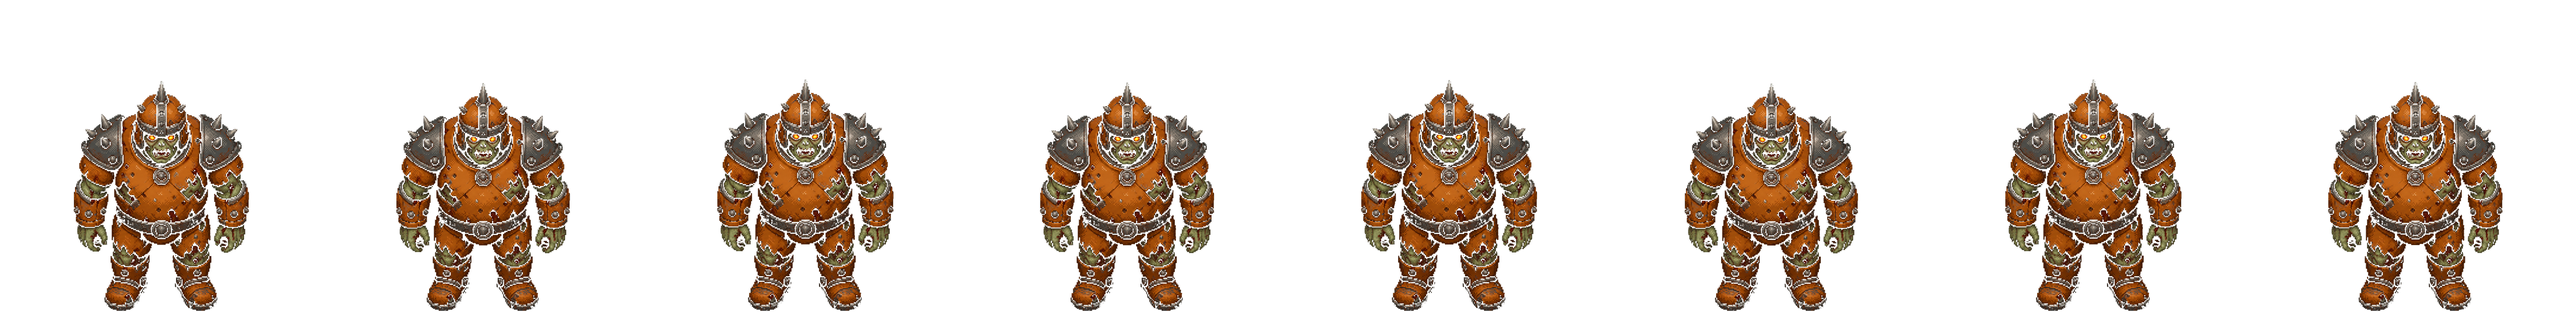
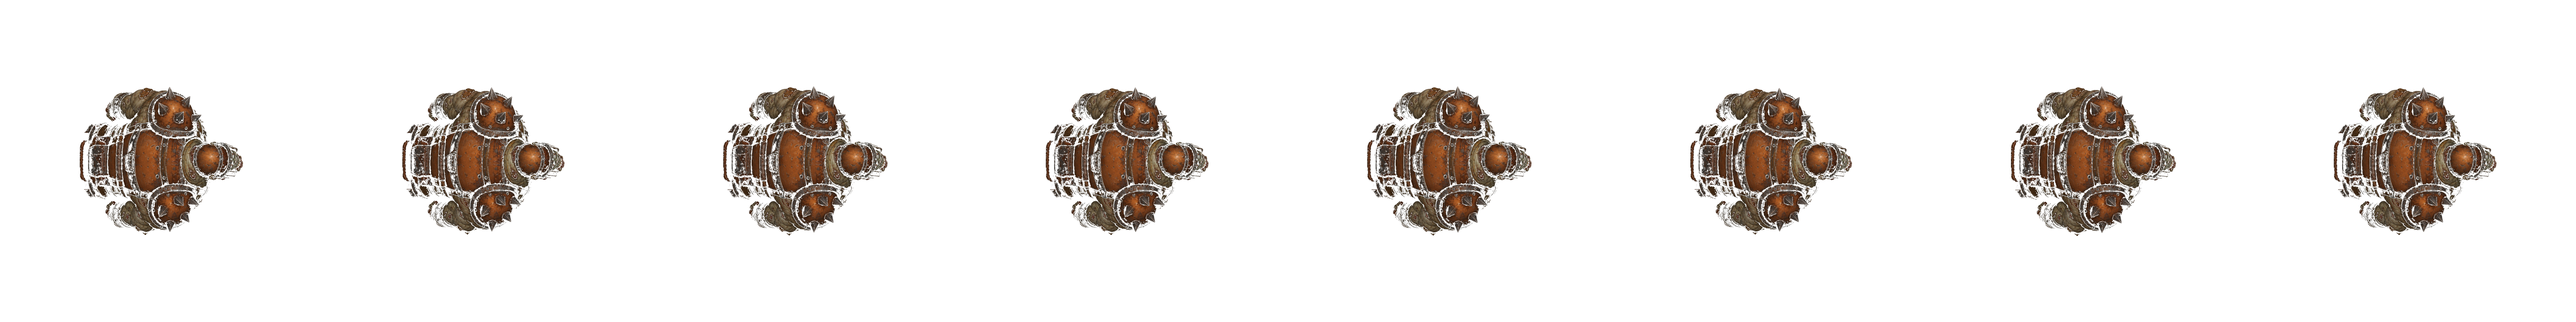
Replace zombie variants with rotatable top-down sprites that face the player like the original skeleton.

diff --git a/public/game.js b/public/game.js
@@ -159,7 +159,7 @@ const WAVE_EVENTS = [
 
 
 
-const SPRITE_VERSION = 28;
+const SPRITE_VERSION = 29;
 
 function loadSpriteSheet(relativePath, frameCount, frameWidth, frameHeight, meta = {}) {
   const sheet = { img: new Image(), frameCount, frameWidth, frameHeight, ready: false, ...meta };
@@ -287,35 +287,27 @@ const zombieSprites = {
 };
 
 const ZOMBIE_VARIANT_FRAME_COUNT = 8;
-const ZOMBIE_VARIANT_FEET_RATIO = 0.96875;
-const ZOMBIE_VARIANT_FACING_OFFSET = -Math.PI / 2;
-
-function getZombieVariantDrawAngle(facingAngle) {
-  const step = Math.PI / 4;
-  const snapped = Math.round((facingAngle || 0) / step) * step;
-  return snapped + ZOMBIE_VARIANT_FACING_OFFSET;
-}
 
 const ZOMBIE_VARIANT_META = {
   normal: {
     idle: { path: "images/zombies/zombie-normal-idle-sheet.png", frameCount: 8, frameWidth: 640, frameHeight: 640 },
     move: { path: "images/zombies/zombie-normal-move-sheet.png", frameCount: 8, frameWidth: 640, frameHeight: 640 },
-    sizeMult: 1.15
+    sizeMult: 1.12
   },
   tank: {
     idle: { path: "images/zombies/zombie-tank-idle-sheet.png", frameCount: 8, frameWidth: 640, frameHeight: 640 },
     move: { path: "images/zombies/zombie-tank-move-sheet.png", frameCount: 8, frameWidth: 640, frameHeight: 640 },
-    sizeMult: 1.22
+    sizeMult: 1.18
   },
   boss: {
     idle: { path: "images/zombies/zombie-boss-idle-sheet.png", frameCount: 8, frameWidth: 640, frameHeight: 640 },
     move: { path: "images/zombies/zombie-boss-move-sheet.png", frameCount: 8, frameWidth: 640, frameHeight: 640 },
-    sizeMult: 1.28
+    sizeMult: 1.24
   },
   golden: {
     idle: { path: "images/zombies/zombie-golden-idle-sheet.png", frameCount: 8, frameWidth: 640, frameHeight: 640 },
     move: { path: "images/zombies/zombie-golden-move-sheet.png", frameCount: 8, frameWidth: 640, frameHeight: 640 },
-    sizeMult: 1.12
+    sizeMult: 1.1
   }
 };
 
@@ -361,7 +353,7 @@ function usesZombieVariantArt(z) {
 function getZombieDrawSheet(z) {
   const set = getZombieVariantSet(z);
   if (usesZombieVariantArt(z)) {
-    return set.move;
+    return (z.animTick || 0) > 0 ? set.move : set.idle;
   }
   return (z.animTick || 0) > 0 ? zombieSprites.move : zombieSprites.idle;
 }
@@ -384,7 +376,7 @@ function getZombieDrawMotion(z) {
   return {
     frame: moving ? z.animFrame || 0 : 0,
     cyOffset: 0,
-    angle: getZombieVariantDrawAngle(z.facingAngle),
+    angle: z.facingAngle || 0,
     squashX: 1,
     drawSize: z.size * (set.sizeMult || 1),
     anchor: "center"
@@ -6928,8 +6920,7 @@ function drawSpriteSheet(sheet, frame, cx, cy, size, angle, options = {}) {
   const drawW = sheet.frameWidth * scale * squashX;
   const drawH = sheet.frameHeight * scale;
   const anchor = options.anchor || "center";
-  const destY =
-    anchor === "feet" ? -drawH * ZOMBIE_VARIANT_FEET_RATIO : -drawH / 2;
+  const destY = -drawH / 2;
 
   ctx.save();
   ctx.translate(cx, cy);

diff --git a/public/index.html b/public/index.html
@@ -5284,7 +5284,7 @@ TikTok @hulklives
 </div>
 
 <script src="game-pro.js?v=3"></script>
-<script src="game.js?v=207"></script>
+<script src="game.js?v=208"></script>
 <script src="chat.js?v=2"></script>
 <script src="daily-challenges.js?v=2"></script>
 <script src="friends.js?v=5"></script>
